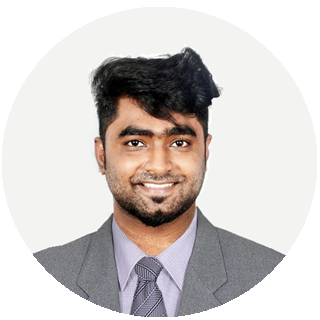
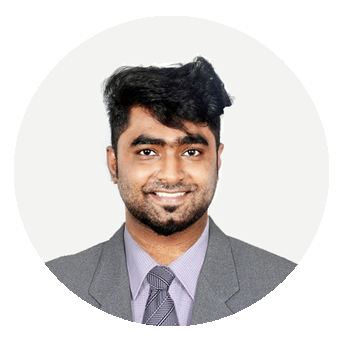
14092021

diff --git a/index.html b/index.html
@@ -75,7 +75,7 @@
           <div class="col-lg-4">
             <!-- Generate Yout avatar at https://getavataaars.com/ -->
             <!-- <img src="assets/img/girl.png" class="img-fluid" alt=""> -->
-            <img src="assets/img/ChintanAghedaPhoto3.jpeg" class="img-fluid" alt="">
+            <img src="assets/img/ChintanAghedaProfessionalPhoto4.png" class="img-fluid" alt="">
           </div>
           <div class="col-lg-8 pt-4 pt-lg-0 content">
             <h3>Currently : Assistant Manager - Finance @ IGP.com</h3>
